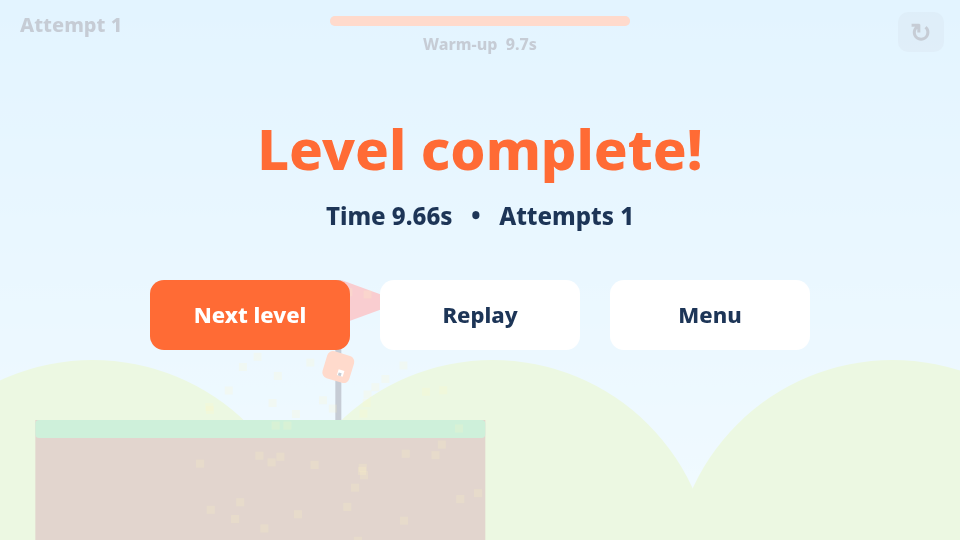
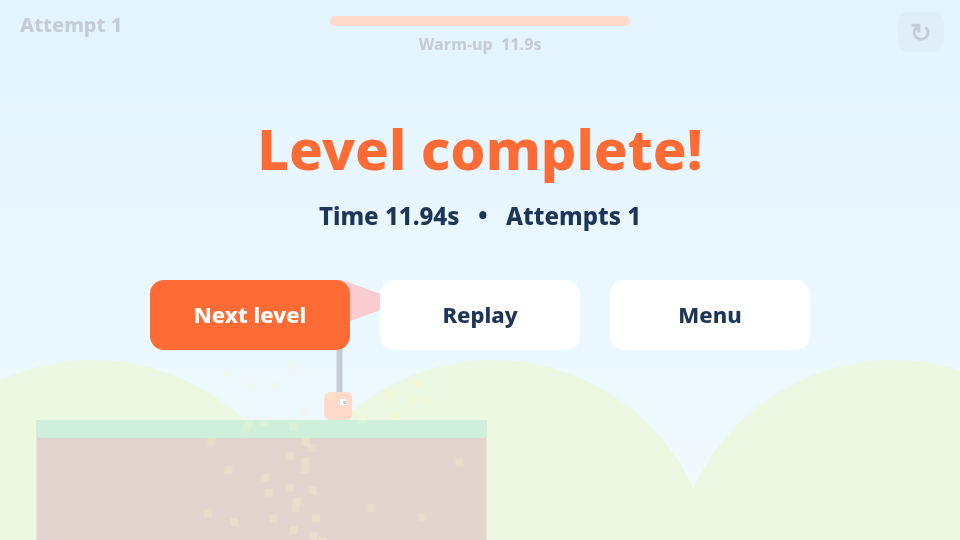
Tap-toggle swing: press to grab, press again to release; 150ms grab buffer; corner-only touch pump; reel-in on ground grabs

Changed region(s): [[0.3125, 0.3852, 0.6875, 0.4444], [0.3125, 0.6519, 0.375, 0.8], [0.4375, 0.0593, 0.5625, 0.0889]]

diff --git a/main.js b/main.js
@@ -5,9 +5,10 @@ function resize(){const d=devicePixelRatio||1;cv.width=innerWidth*d;cv.height=in
 addEventListener('resize',resize);resize();
 const C={sky:'#8fd3ff',sky2:'#c8ecff',ground:'#3ec46d',dirt:'#8a5a3c',spike:'#ff4d6d',plat:'#ffb703',hook:'#264653',rope:'#264653',player:'#ff6b35',hi:'#ffd60a',flag:'#e63946',text:'#1d3557'};
 let screen='title',li=0,s=null,attempts=1,camX=0,parts=[],trail=[],best={},sel=0,deathT=0,bot=null,botI=0;
-const keys={},inp={grab:false,dir:0};let touchGrab=false,touchDir=0;
+const keys={};const inPump=p=>p.y>VH*0.6&&(p.x<VW*0.25||p.x>VW*0.75);
+const inp={tap:false,dir:0};let tapQ=false,touchDir=0;
 let ac=null;function blip(f,d,type){try{ac=ac||new AudioContext();const o=ac.createOscillator(),g=ac.createGain();o.type=type||'square';o.frequency.value=f;g.gain.value=.06;g.gain.exponentialRampToValueAtTime(.001,ac.currentTime+d);o.connect(g).connect(ac.destination);o.start();o.stop(ac.currentTime+d);}catch(e){}}
-function start(i){bot=null;li=i;s=S.create(i);screen='play';camX=0;parts=[];trail=[];}
+function start(i){bot=null;tapQ=false;li=i;s=S.create(i);screen='play';camX=0;parts=[];trail=[];}
 function restart(){attempts++;start(li);}
 function burst(x,y,col,n){for(let i=0;i<n;i++){const a=Math.random()*6.28,v=60+Math.random()*260;parts.push({x,y,vx:Math.cos(a)*v,vy:Math.sin(a)*v-80,l:.6,col});}}
 function menuAct(){if(screen==='title'){attempts=1;start(sel);}else if(screen==='done'){if(sel===0&&li+1<S.LEVELS.length){attempts=1;start(li+1);}else if(sel===1){attempts=1;start(li);}else{screen='title';sel=0;}}}
@@ -17,31 +18,31 @@ addEventListener('keydown',e=>{const k=e.code;if(keys[k])return;keys[k]=true;
   if(k==='ArrowLeft'||k==='KeyA'||k==='ArrowUp'||k==='KeyW')sel=(sel+n-1)%n;
   if(k==='ArrowRight'||k==='KeyD'||k==='ArrowDown'||k==='KeyS')sel=(sel+1)%n;
   if(k==='Enter'||k==='Space')menuAct();if(k==='Escape')screen='title';return;}
- if(k==='KeyR'){restart();}if(k==='Escape'){screen='title';sel=li;}});
+ if(k==='KeyR'){restart();}if((k==='Space'||k==='ArrowUp'||k==='KeyW')&&!e.repeat)tapQ=true;if(k==='Escape'){screen='title';sel=li;}});
 addEventListener('keyup',e=>{keys[e.code]=false;});
 function tpos(t){const r=cv.getBoundingClientRect(),d=devicePixelRatio||1;return {x:((t.clientX-r.left)*d-ox)/scale,y:((t.clientY-r.top)*d-oy)/scale};}
 let menuBoxes=[];
 function onDown(pt){if(screen!=='play'){let hit=null;const P=18;for(const b of menuBoxes)if(pt.x>b.x-P&&pt.x<b.x+b.w+P&&pt.y>b.y-P&&pt.y<b.y+b.h+P){hit=b;break;}
   if(hit){if(hit.i!=='start')sel=hit.i;}else if(screen!=='title')return;
   if(screen==='title'){attempts=1;start(sel);}else menuAct();return;}
- if(pt.x>VW-70&&pt.y<60){restart();return;}touchGrab=true;}
+ if(pt.x>VW-70&&pt.y<60){restart();return;}if(!inPump(pt))tapQ=true;}
 cv.addEventListener('pointerdown',e=>{e.preventDefault();onDown(tpos(e));ptrs[e.pointerId]=tpos(e);updDir();});
 cv.addEventListener('pointermove',e=>{if(ptrs[e.pointerId]){ptrs[e.pointerId]=tpos(e);updDir();}});
 const ptrs={};
 if(!window.PointerEvent){cv.addEventListener('touchstart',e=>{e.preventDefault();for(const t of e.changedTouches){onDown(tpos(t));ptrs[t.identifier]=tpos(t);}updDir();},{passive:false});
- const te=e=>{for(const t of e.changedTouches)delete ptrs[t.identifier];if(!Object.keys(ptrs).length)touchGrab=false;updDir();};cv.addEventListener('touchend',te);cv.addEventListener('touchcancel',te);
- cv.addEventListener('mousedown',e=>{onDown(tpos(e));});addEventListener('mouseup',()=>{if(!Object.keys(ptrs).length)touchGrab=false;});}function up(e){delete ptrs[e.pointerId];if(!Object.keys(ptrs).length)touchGrab=false;updDir();}
+ const te=e=>{for(const t of e.changedTouches)delete ptrs[t.identifier];updDir();};cv.addEventListener('touchend',te);cv.addEventListener('touchcancel',te);
+ cv.addEventListener('mousedown',e=>{onDown(tpos(e));});addEventListener('mouseup',()=>{});}function up(e){delete ptrs[e.pointerId];updDir();}
 cv.addEventListener('pointerup',up);cv.addEventListener('pointercancel',up);
-function updDir(){touchDir=0;for(const k in ptrs){const p=ptrs[k];if(p.y>VH*0.55)touchDir=p.x<VW/2?-1:1;}}
+function updDir(){touchDir=0;for(const k in ptrs){const p=ptrs[k];if(inPump(p))touchDir=p.x<VW/2?-1:1;}}
 // test hooks
 const q=new URLSearchParams(location.search);
-window.__swing={boxes:()=>menuBoxes,start,get state(){return s},get screen(){return screen},playBot(i,seq,A,CH){attempts=1;start(i);bot={seq,A,CH};botI=0;},setScreen(x){screen=x}};
+window.__swing={boxes:()=>menuBoxes,start,get state(){return s},get screen(){return screen},playBot(i,seq,A,CH){attempts=1;start(i);bot={seq,A,CH};botI=0;},tap(){tapQ=true;},setScreen(x){screen=x}};
 let acc=0,last=performance.now();
 function tick(now){try{tickInner(now);}catch(e){console.error(e);requestAnimationFrame(tick);}}
 function tickInner(now){let dt=Math.min(.05,(now-last)/1000);last=now;if(screen==='play'){acc+=dt;
  while(acc>=S.DT){acc-=S.DT;
-  if(bot){const a=bot.A[bot.seq[Math.floor(botI/bot.CH)]]||{grab:false,dir:0};botI++;inp.grab=a.grab;inp.dir=a.dir;}
-  else{inp.grab=!!(keys.Space||keys.ArrowUp||keys.KeyW||touchGrab);inp.dir=(keys.ArrowRight||keys.KeyD?1:0)-(keys.ArrowLeft||keys.KeyA?1:0)||touchDir;}
+  if(bot){const a=bot.A[bot.seq[Math.floor(botI/bot.CH)]]||{tap:false,dir:0};inp.tap=a.tap&&botI%bot.CH===0;botI++;inp.dir=a.dir;}
+  else{inp.tap=tapQ;tapQ=false;inp.dir=(keys.ArrowRight||keys.KeyD?1:0)-(keys.ArrowLeft||keys.KeyA?1:0)||touchDir;}
   if(s.dead){deathT-=S.DT;if(deathT<=0&&!bot)restart();else if(deathT<=0){bot=null;}continue;}
   if(s.done)break;
   S.step(s,inp);
@@ -82,7 +83,7 @@ function drawWorld(){const L=S.LEVELS[li],p=s.p;const target=p.x-VW*0.35;camX+=(
  const prog=Math.min(1,Math.max(0,p.x/L.finish));rr(VW/2-150,16,300,10,5,'rgba(29,53,87,.2)');rr(VW/2-150,16,300*prog,10,5,C.player);
  txt(`Attempt ${attempts}`,20,32,20,C.text,'left');txt(`${L.name}  ${s.t.toFixed(1)}s`,VW/2,50,16);
  rr(VW-62,12,46,40,10,'rgba(29,53,87,.15)');txt('↻',VW-39,42,26);
- if(li===0&&s.t<6&&attempts<3)txt('Hold SPACE / touch to grab • release to launch • ←/→ pump',VW/2,VH-24,18);}
+ if(li===0&&s.t<6&&attempts<3)txt('Tap SPACE / screen to grab • tap again to launch • ←/→ or bottom corners pump',VW/2,VH-24,18);}
 function button(x,y,w,h,label,i,on,ring){if(ring)rr(x-5,y-5,w+10,h+10,18,C.player);rr(x,y,w,h,14,on?C.player:'#fff');txt(label,x+w/2,y+h/2+8,22,on?'#fff':C.text);menuBoxes.push({x,y,w,h,i});}
 function draw(){cx.setTransform(1,0,0,1,0,0);cx.fillStyle=C.sky;cx.fillRect(0,0,cv.width,cv.height);cx.setTransform(scale,0,0,scale,ox,oy);
  cx.save();cx.beginPath();cx.rect(0,0,VW,VH);cx.clip();const gr=cx.createLinearGradient(0,0,0,VH);gr.addColorStop(0,C.sky);gr.addColorStop(1,C.sky2);cx.fillStyle=gr;cx.fillRect(0,0,VW,VH);
@@ -90,7 +91,7 @@ function draw(){cx.setTransform(1,0,0,1,0,0);cx.fillStyle=C.sky;cx.fillRect(0,0,
  if(screen==='title'){txt('SWING',VW/2,170,96,C.player);txt('grab • swing • release',VW/2,215,22);
   button(VW/2-180,245,360,100,`▶  START  (${S.LEVELS[sel].name})`,'start',true);
   S.LEVELS.forEach((L,i)=>button(VW/2-230+i*240,365,220,64,`${i+1}. ${L.name}`+(best[i]?`  ${best[i].toFixed(1)}s`:''),i,false,sel===i));
-  txt('Hold SPACE/↑/W or touch = grab   •   let go = launch   •   ←/→ or A/D (or bottom screen halves) = pump   •   R = restart',VW/2,490,15);}
+  txt('Tap SPACE/↑/W or screen = grab   •   tap again = launch   •   ←/→, A/D or bottom corners = pump   •   R = restart',VW/2,490,15);}
  else{drawWorld();if(screen==='done'){cx.fillStyle='rgba(255,255,255,.75)';cx.fillRect(0,0,VW,VH);txt('Level complete!',VW/2,170,56,C.player);
   txt(`Time ${doneT.toFixed(2)}s   •   Attempts ${attempts}`,VW/2,225,24);
   const hasNext=li+1<S.LEVELS.length;button(VW/2-330,280,200,70,hasNext?'Next level':'—',0,sel===0);button(VW/2-100,280,200,70,'Replay',1,sel===1);button(VW/2+130,280,200,70,'Menu',2,sel===2);}}

diff --git a/test/physics.js b/test/physics.js
@@ -5,24 +5,30 @@ const S=require('../sim.js');const assert=require('assert');let n=0;const ok=(c,
  for(let i=0;i<1200;i++){p.th+=0;const a=-(S.G/p.len)*Math.sin(p.th);p.w+=a*S.DT;p.th+=p.w*S.DT;p.y=270+p.len*Math.cos(p.th);mx=Math.max(mx,Math.abs(E()-E0)/E0);}
  ok(mx<0.03,`energy drift over 10s pendulum ${(mx*100).toFixed(2)}% < 3%`);}
 // attach within radius, not beyond
-{const s=S.create(0);s.p.mode='air';s.p.x=830-100;s.p.y=270+100;s.p.vx=300;s.p.vy=0;S.step(s,{grab:true,dir:0});ok(s.p.mode==='swing'&&s.p.hook===0,'grab attaches within radius');
+{const s=S.create(0);s.p.mode='air';s.p.x=830-100;s.p.y=270+100;s.p.vx=300;s.p.vy=0;S.step(s,{tap:true,dir:0});ok(s.p.mode==='swing'&&s.p.hook===0,'grab attaches within radius');
  ok(Math.abs(s.p.len-Math.hypot(100,100))<6,'rope length = distance at grab');}
-{const s=S.create(0);s.p.mode='air';s.p.x=830-300;s.p.y=270+200;s.p.vx=0;s.p.vy=0;S.step(s,{grab:true,dir:0});ok(s.p.mode!=='swing','no grab outside radius');}
+{const s=S.create(0);s.p.mode='air';s.p.x=830-300;s.p.y=270+200;s.p.vx=0;s.p.vy=0;for(let i=0;i<30;i++)S.step(s,{tap:i===0,dir:0});ok(s.p.mode!=='swing','no grab outside radius');}
 // release tangential velocity
-{const s=S.create(0);s.p.mode='air';s.p.x=830-100;s.p.y=370;s.p.vx=300;s.p.vy=0;S.step(s,{grab:true,dir:0});for(let i=0;i<20;i++)S.step(s,{grab:true,dir:0});
- const p=s.p,th=p.th,w=p.w,L=p.len;S.step(s,{grab:false,dir:0});const ex=L*w*Math.cos(th),ey=-L*w*Math.sin(th);
+{const s=S.create(0);s.p.mode='air';s.p.x=830-100;s.p.y=370;s.p.vx=300;s.p.vy=0;S.step(s,{tap:true,dir:0});for(let i=0;i<20;i++)S.step(s,{tap:false,dir:0});
+ const p=s.p,th=p.th,w=p.w,L=p.len;S.step(s,{tap:true,dir:0});const ex=L*w*Math.cos(th),ey=-L*w*Math.sin(th);
  ok(s.p.mode==='air'&&Math.abs(s.p.vx-ex)<1&&Math.abs(s.p.vy-(ey+S.G*S.DT))<1,`release launches tangentially v=(${s.p.vx.toFixed(0)},${s.p.vy.toFixed(0)})`);
  const r=[s.p.x-830,s.p.y-270];ok(Math.abs(r[0]*s.p.vx+r[1]*(s.p.vy-S.G*S.DT))/Math.hypot(...r)/Math.hypot(s.p.vx,s.p.vy)<0.05,'launch velocity perpendicular to rope');}
 // pumping increases amplitude
-{const run=d=>{const s=S.create(0);s.p.mode='air';s.p.x=830-60;s.p.y=270+150;s.p.vx=0;s.p.vy=0;S.attach(s,0);let m=0;for(let i=0;i<600;i++){S.step(s,{grab:true,dir:d*Math.sign(s.p.w||1)});m=Math.max(m,Math.abs(s.p.th));}return m;};
+{const run=d=>{const s=S.create(0);s.p.mode='air';s.p.x=830-60;s.p.y=270+150;s.p.vx=0;s.p.vy=0;S.attach(s,0);let m=0;for(let i=0;i<600;i++){S.step(s,{tap:false,dir:d*Math.sign(s.p.w||1)});m=Math.max(m,Math.abs(s.p.th));}return m;};
  const a=run(0),b=run(1);ok(b>a*1.3,`pumping raises swing amplitude ${a.toFixed(2)}→${b.toFixed(2)} rad`);}
 // death in pit, restart
-{const s=S.create(0);let i=0;while(!s.dead&&i<2000){S.step(s,{grab:false,dir:0});i++;}ok(s.dead,'running into first pit kills the player');const r=S.create(0);ok(!r.dead&&r.p.x===60&&r.t===0,'restart gives fresh state');}
+{const s=S.create(0);let i=0;while(!s.dead&&i<2000){S.step(s,{tap:false,dir:0});i++;}ok(s.dead,'running into first pit kills the player');const r=S.create(0);ok(!r.dead&&r.p.x===60&&r.t===0,'restart gives fresh state');}
 // spike death
-{const s=S.create(0);s.p.x=2200;s.p.y=420-14;S.step(s,{grab:false,dir:0});let i=0;while(!s.dead&&i<200){S.step(s,{grab:false,dir:0});i++;}ok(s.dead&&s.p.x<2260,'spikes kill');}
+{const s=S.create(0);s.p.x=2200;s.p.y=420-14;S.step(s,{tap:false,dir:0});let i=0;while(!s.dead&&i<200){S.step(s,{tap:false,dir:0});i++;}ok(s.dead&&s.p.x<2260,'spikes kill');}
 // solver: both levels completable
-{const {solve,A,CH}=require('./solve.js');const sol={};for(let li=0;li<S.LEVELS.length;li++){const q=solve(li);ok(!!q,`level ${li+1} completable by search bot`);
- const s=S.create(li);let k=0;while(!s.done&&!s.dead&&k<q.length*CH+10){S.step(s,A[q[Math.floor(k/CH)]]||A[0]);k++;}ok(s.done,`level ${li+1} replay of solution reaches flag (${s.t.toFixed(1)}s)`);
- const hooksUsed=new Set();const s2=S.create(li);k=0;while(!s2.done&&!s2.dead){S.step(s2,A[q[Math.floor(k/CH)]]||A[0]);if(s2.p.mode==='swing')hooksUsed.add(s2.p.hook);k++;}console.log('   hooks used:',[...hooksUsed].join(','));sol[li]=q;}
+{const {solve,A,CH,act}=require('./solve.js');const sol={};for(let li=0;li<S.LEVELS.length;li++){const q=solve(li);ok(!!q,`level ${li+1} completable by search bot`);
+ const s=S.create(li);let k=0;while(!s.done&&!s.dead&&k<q.length*CH+10){S.step(s,act(A[q[Math.floor(k/CH)]]||A[0],k%CH));k++;}ok(s.done,`level ${li+1} replay of solution reaches flag (${s.t.toFixed(1)}s)`);
+ const hooksUsed=new Set();const s2=S.create(li);k=0;while(!s2.done&&!s2.dead){S.step(s2,act(A[q[Math.floor(k/CH)]]||A[0],k%CH));if(s2.p.mode==='swing')hooksUsed.add(s2.p.hook);k++;}console.log('   hooks used:',[...hooksUsed].join(','));sol[li]=q;}
  require('fs').writeFileSync(__dirname+'/solutions.json',JSON.stringify(sol));}
+// buffer: early tap still catches; stale tap does not
+{const s=S.create(0);s.p.mode='air';s.p.x=830-200;s.p.y=360;s.p.vx=330;s.p.vy=0;S.step(s,{tap:true,dir:0});const first=s.p.mode;let k=0;while(s.p.mode!=='swing'&&k<18){S.step(s,{tap:false,dir:0});k++;}
+ ok(first!=='swing'&&s.p.mode==='swing','early tap (out of reach) is buffered and grabs within 150ms');}
+{const s=S.create(0);s.p.mode='air';s.p.x=830-300;s.p.y=370;s.p.vx=330;s.p.vy=0;S.step(s,{tap:true,dir:0});for(let i=0;i<40;i++)S.step(s,{tap:false,dir:0});ok(s.p.mode!=='swing','tap older than buffer does not grab later');}
+{const s=S.create(0);s.p.mode='air';s.p.x=730;s.p.y=370;s.p.vx=300;s.p.vy=0;S.step(s,{tap:true,dir:0});for(let i=0;i<30;i++)S.step(s,{tap:false,dir:0});ok(s.p.mode==='swing','swing persists without holding');}
+{const s=S.create(0);while(s.p.x<700)S.step(s,{tap:false,dir:0});S.step(s,{tap:true,dir:0});for(let i=0;i<30;i++)S.step(s,{tap:false,dir:0});ok(s.p.mode==='swing','tap while running on ground grabs and keeps swinging');}
 console.log(n,'checks passed');

diff --git a/test/browser.js b/test/browser.js
@@ -1,9 +1,9 @@
 const pup=require('puppeteer-core'),http=require('http'),fs=require('fs'),path=require('path');
-const root=path.join(__dirname,'..'),sol=require('./solutions.json'),{A,CH}=require('./solve.js');
+const root=path.join(__dirname,'..'),sol=require('./solutions.json'),{A,CH}=require('./solve.js');const BASE=process.argv[2];
 const srv=http.createServer((q,r)=>{const f=path.join(root,q.url.split('?')[0]==='/'?'index.html':q.url.split('?')[0]);fs.readFile(f,(e,d)=>{if(e){r.writeHead(404);return r.end();}r.writeHead(200,{'content-type':f.endsWith('.html')?'text/html':'text/javascript'});r.end(d);});}).listen(0,'127.0.0.1');
 (async()=>{const b=await pup.launch({executablePath:'/usr/bin/google-chrome',args:['--no-sandbox']});const p=await b.newPage();await p.setViewport({width:960,height:540});
 const errs=[];p.on('console',m=>{if(m.type()==='error')errs.push(m.text())});p.on('pageerror',e=>errs.push(String(e)));
-await p.goto('http://127.0.0.1:'+srv.address().port+'/');await new Promise(r=>setTimeout(r,500));await p.screenshot({path:root+'/shots/title.png'});
+await p.goto(BASE||('http://127.0.0.1:'+srv.address().port+'/'));await new Promise(r=>setTimeout(r,500));await p.screenshot({path:root+'/shots/title.png'});
 for(const li of [0,1]){await p.evaluate((li,seq,A,CH)=>window.__swing.playBot(li,seq,A,CH),li,sol[li],A,CH);
  await new Promise(r=>setTimeout(r,2600));await p.screenshot({path:root+`/shots/level${li+1}-swing.png`});
  await p.waitForFunction(()=>window.__swing.screen==='done',{timeout:20000});await new Promise(r=>setTimeout(r,400));
@@ -11,5 +11,14 @@ for(const li of [0,1]){await p.evaluate((li,seq,A,CH)=>window.__swing.playBot(li
 // death + restart via real keys
 await p.evaluate(()=>window.__swing.start(0));await new Promise(r=>setTimeout(r,4000));
 const st=await p.evaluate(()=>({x:window.__swing.state.p.x,t:window.__swing.state.t}));console.log(st.x<700&&st.t<2?'PASS died in pit and auto-restarted':'FAIL restart',JSON.stringify(st));
-await p.keyboard.down('Space');await new Promise(r=>setTimeout(r,200));const m=await p.waitForFunction(()=>window.__swing.state.p.mode==='swing',{timeout:4000}).then(()=>'swing',()=>'no swing');await new Promise(r=>setTimeout(r,300));console.log('mode while holding space:',m);await p.screenshot({path:root+'/shots/level1-grab.png'});await p.keyboard.up('Space');
+await p.waitForFunction(()=>window.__swing.state.p.x>690,{timeout:5000});await p.keyboard.press('Space');const m=await p.waitForFunction(()=>window.__swing.state.p.mode==='swing',{timeout:4000}).then(()=>'swing',()=>'no swing');await new Promise(r=>setTimeout(r,300));console.log('mode after Space tap:',m);await p.screenshot({path:root+'/shots/level1-grab.png'});await new Promise(r=>setTimeout(r,600));console.log('still swinging after key up (no hold needed):',await p.evaluate(()=>window.__swing.state.p.mode));
+await p.keyboard.press('Space');await new Promise(r=>setTimeout(r,30));console.log('after 2nd tap:',await p.evaluate(()=>window.__swing.state.p.mode));
+// touch: tap center grabs, corner does not toggle
+const c=await p.target().createCDPSession();const T=async(x,y)=>{await c.send('Input.dispatchTouchEvent',{type:'touchStart',touchPoints:[{x,y}]});await c.send('Input.dispatchTouchEvent',{type:'touchEnd',touchPoints:[]});};
+await p.evaluate(()=>window.__swing.start(0));await p.waitForFunction(()=>window.__swing.state.p.x>690,{timeout:5000});
+await T(900,500);await new Promise(r=>setTimeout(r,250));console.log('corner tap mode (expect not swing):',await p.evaluate(()=>window.__swing.state.p.mode+' '+(window.__swing.state.dead?'dead':'')));
+await p.evaluate(()=>window.__swing.start(0));await p.waitForFunction(()=>window.__swing.state.p.x>690,{timeout:5000});
+await T(480,200);await new Promise(r=>setTimeout(r,40));console.log('touch tap 1:',await p.evaluate(()=>window.__swing.state.p.mode));await new Promise(r=>setTimeout(r,300));
+await c.send('Input.dispatchTouchEvent',{type:'touchStart',touchPoints:[{x:900,y:500}]});await new Promise(r=>setTimeout(r,300));console.log('corner pump while swinging keeps swing:',await p.evaluate(()=>window.__swing.state.p.mode));await c.send('Input.dispatchTouchEvent',{type:'touchEnd',touchPoints:[]});
+await T(480,200);await new Promise(r=>setTimeout(r,40));console.log('touch tap 2:',await p.evaluate(()=>window.__swing.state.p.mode));
 console.log(errs.length?'CONSOLE ERRORS: '+errs.join('|'):'PASS no console errors');await b.close();srv.close();})();

diff --git a/sim.js b/sim.js
@@ -1,11 +1,11 @@
 // Swing — pure simulation (shared by game + tests)
 (function(root){
-const G=1500, RUN=330, R=14, GRAB_R=200, PUMP=2.5, VMAX=900, DT=1/120;
+const G=1500, RUN=330, R=14, GRAB_R=200, PUMP=2.5, VMAX=900, DT=1/120, BUF=0.15;
 const LEVELS=[
  {name:"Warm-up", finish:3350,
-  ground:[[0,700],[1050,1500],[1950,2650],[3050,3500]], groundY:420,
+  ground:[[0,700],[1050,1500],[1860,2650],[3050,3500]], groundY:420,
   spikes:[[2250,2330]], plats:[],
-  hooks:[{x:830,y:270,k:'hook'},{x:1640,y:280,k:'bar'},{x:2290,y:270,k:'vine'},{x:2800,y:280,k:'hook'}]},
+  hooks:[{x:830,y:270,k:'hook'},{x:1650,y:270,k:'bar'},{x:2290,y:270,k:'vine'},{x:2800,y:280,k:'hook'}]},
  {name:"Chain", finish:4300,
   ground:[[0,600],[3950,4500]], groundY:420,
   spikes:[[3950,4030]], plats:[{x:2550,y:400,w:180,dx:140,per:3}],
@@ -16,18 +16,18 @@ function hookPos(h,t){const p=h.per||1,s=Math.sin(2*Math.PI*t/p);return {x:h.x+(
 function platX(p,t){return p.x+p.dx*Math.sin(2*Math.PI*t/p.per);}
 function solids(L,t){const a=L.ground.map(g=>({x1:g[0],x2:g[1],y:L.groundY,plat:null}));
  for(const p of L.plats){const x=platX(p,t);a.push({x1:x,x2:x+p.w,y:p.y,plat:p,h:16});}return a;}
-function create(li){const L=LEVELS[li];return {li,t:0,dead:false,done:false,grabPrev:false,last:-1,
+function create(li){const L=LEVELS[li];return {li,t:0,dead:false,done:false,buf:0,last:-1,
  p:{x:60,y:L.groundY-R,vx:RUN,vy:0,mode:'ground',hook:-1,len:0,th:0,w:0}};}
 function nearest(s){const L=LEVELS[s.li],p=s.p;let best=-1,bd=GRAB_R;
  L.hooks.forEach((h,i)=>{if(i===s.last&&p.mode==='air')return;const q=hookPos(h,s.t),d=Math.hypot(q.x-p.x,q.y-p.y);if(d<bd&&q.y<p.y){bd=d;best=i;}});return best;}
 function attach(s,i){const p=s.p,q=hookPos(LEVELS[s.li].hooks[i],s.t),dx=p.x-q.x,dy=p.y-q.y;
- p.len=Math.hypot(dx,dy);p.th=Math.atan2(dx,dy);const tx=Math.cos(p.th),ty=-Math.sin(p.th);
+ p.len=Math.hypot(dx,dy);p.th=Math.atan2(dx,dy);if(p.mode==='ground'){const mx=LEVELS[s.li].groundY-R-q.y-6;if(p.len>mx){p.len=Math.max(50,mx);p.x=q.x+p.len*Math.sin(p.th);p.y=q.y+p.len*Math.cos(p.th);}}const tx=Math.cos(p.th),ty=-Math.sin(p.th);
  p.w=(p.vx*tx+p.vy*ty)/p.len;p.mode='swing';p.hook=i;}
 function release(s){const p=s.p;p.vx=p.len*p.w*Math.cos(p.th);p.vy=-p.len*p.w*Math.sin(p.th);p.mode='air';s.last=p.hook;p.hook=-1;}
 function step(s,inp){if(s.dead||s.done)return s;const L=LEVELS[s.li],p=s.p,ev=[];const t0=s.t;s.t+=DT;
- const press=inp.grab&&!s.grabPrev;s.grabPrev=inp.grab;
- if(p.mode==='swing'&&!inp.grab){release(s);ev.push('release');}
- if(p.mode!=='swing'&&inp.grab&&(press||p.mode==='air')){const i=nearest(s);if(i>=0){attach(s,i);ev.push('grab');}}
+ // toggle: a tap releases if swinging, otherwise requests a grab (buffered BUF seconds)
+ if(inp.tap){if(p.mode==='swing'){release(s);ev.push('release');s.buf=0;}else s.buf=BUF;}
+ if(p.mode!=='swing'&&s.buf>0){const i=nearest(s);if(i>=0){attach(s,i);ev.push('grab');s.buf=0;}else s.buf-=DT;}
  const py=p.y;
  if(p.mode==='swing'){const q=hookPos(L.hooks[p.hook],s.t);let a=-(G/p.len)*Math.sin(p.th);
   if(inp.dir&&Math.sign(inp.dir)===Math.sign(p.w||inp.dir))a+=PUMP*inp.dir;
@@ -44,6 +44,6 @@ function step(s,inp){if(s.dead||s.done)return s;const L=LEVELS[s.li],p=s.p,ev=[]
  if(p.y>900){s.dead=true;ev.push('die');}
  if(!s.dead&&p.x>=L.finish){s.done=true;ev.push('done');}
  s.ev=ev;return s;}
-const api={G,RUN,R,GRAB_R,DT,LEVELS,create,step,nearest,hookPos,platX,solids,release,attach};
+const api={BUF,G,RUN,R,GRAB_R,DT,LEVELS,create,step,nearest,hookPos,platX,solids,release,attach};
 if(typeof module!=='undefined')module.exports=api;else root.SwingSim=api;
 })(this);

diff --git a/test/solve.js b/test/solve.js
@@ -1,12 +1,13 @@
 const S=require('../sim.js');const clone=o=>structuredClone(o);
-const A=[{grab:false,dir:0},{grab:true,dir:1},{grab:true,dir:-1},{grab:true,dir:0}],CH=8;
+const A=[{tap:false,dir:0},{tap:true,dir:0},{tap:false,dir:1},{tap:false,dir:-1}],CH=8;
+const act=(a,k)=>({tap:a.tap&&k===0,dir:a.dir});
 function solve(li){let beam=[{s:S.create(li),seq:[]}];
  for(let d=0;d<400;d++){const nx=[];
-  for(const b of beam)for(let a=0;a<4;a++){const s=clone(b.s);for(let k=0;k<CH;k++)S.step(s,A[a]);
+  for(const b of beam)for(let a=0;a<4;a++){const s=clone(b.s);for(let k=0;k<CH;k++)S.step(s,act(A[a],k));
    if(s.dead)continue;const seq=b.seq.concat(a);if(s.done)return seq;nx.push({s,seq,sc:s.p.x+Math.random()*30});}
   if(!nx.length){console.log("stuck depth",d,"bestx",Math.round(Math.max(...beam.map(b=>b.s.p.x))));return null;}nx.sort((a,b)=>b.sc-a.sc);beam=[];const seen=new Set();
-  for(const n of nx){const key=[n.s.p.mode,n.s.p.hook,Math.round(n.s.p.x/12),Math.round(n.s.p.y/12),Math.round(n.s.p.w*4)].join();if(seen.has(key))continue;seen.add(key);beam.push(n);if(beam.length>=250)break;}}
+  for(const n of nx){const key=[n.s.p.mode,n.s.p.hook,Math.round(n.s.p.x/12),Math.round(n.s.p.y/12),Math.round(n.s.p.w*4),n.s.buf>0,Math.round(n.s.p.vy/60)].join();if(seen.has(key))continue;seen.add(key);beam.push(n);if(beam.length>=500)break;}}
 console.log("depth out bestx",Math.round(Math.max(...beam.map(b=>b.s.p.x)))); return null;}
-module.exports={solve,A,CH};
+module.exports={solve,A,CH,act};
 if(require.main===module){const out={};for(let i=0;i<S.LEVELS.length;i++){const q=solve(i);console.log('level',i+1,q?'SOLVED in '+(q.length*CH/120).toFixed(1)+'s':'UNSOLVED');out[i]=q;}
 require('fs').writeFileSync(__dirname+'/solutions.json',JSON.stringify(out));}
